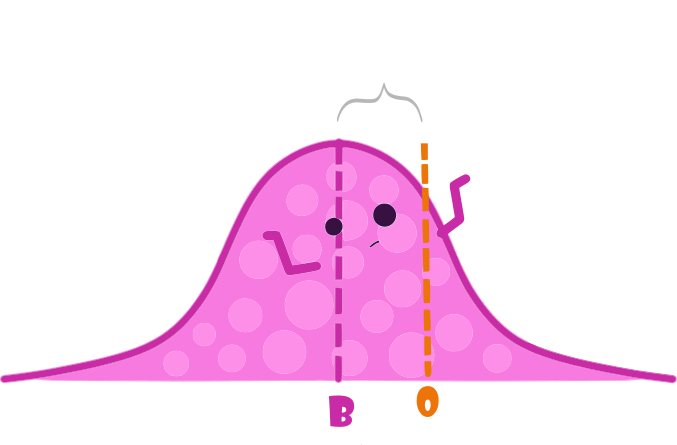
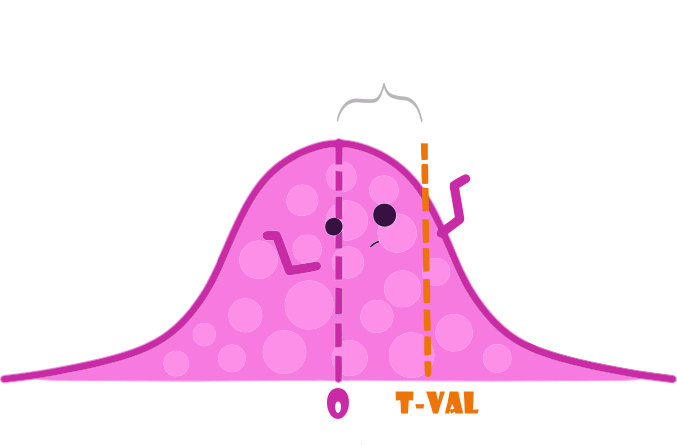
UPDATE

Changed region(s): [[0.5583, 0.8472, 0.7134, 0.9348], [0.4653, 0.8764, 0.5273, 0.964]]

diff --git a/exampleSite/content/Classes/Week2/1_OLS/f2022_sta235h_3_reg_annotate.html b/exampleSite/content/Classes/Week2/1_OLS/f2022_sta235h_3_reg_annotate.html
@@ -147,9 +147,39 @@ lm(Adj_Revenue ~ bechdel_test + Adj_Budget + Metascore + imdbRating, data=bechde
 
 - **.darkorange["Standard Error"]** (SE): You can think about it as the variability of `\(\hat{\beta}\)`. The smaller, the more precise `\(\hat{\beta}\)` is!
 
-- **.darkorange["t-stat"]**: A value of the Student distribution that measures how many SE away `\(\hat{\beta}\)` is from 0. It relates to our null-hypothesis `\(H_0: \beta=0\)`
+- **.darkorange["t-value"]**: A value of the Student distribution that measures how many SE away `\(\hat{\beta}\)` is from 0. You can calculate as `\(\frac{\hat{\beta}}{SE}\)`. It relates to our null-hypothesis `\(H_0: \beta=0\)`.
 
 - **.darkorange["p-value"]**: Probability of rejecting the null hypothesis and being *wrong*. You want this to be a small as possible (statistically significant).
+
+---
+# Reminder: Null-Hypothesis
+
+- We are testing `\(H_0: \beta = 0\)` vs `\(H_1: \beta \neq 0\)`
+
+.pull-left[
+- "Reject the null hypothesis"
+.center[
+![](https://raw.githubusercontent.com/maibennett/sta235/main/exampleSite/content/Classes/Week2/1_OLS/images/ttest_null.png)]
+]
+
+.pull-right[
+- "Not reject the null hypothesis"
+.center[
+![](https://raw.githubusercontent.com/maibennett/sta235/main/exampleSite/content/Classes/Week2/1_OLS/images/ttest_not_null.png)
+]
+]
+
+---
+# Reminder: Null-Hypothesis
+
+- We are testing `\(H_0: \beta = 0\)` vs `\(H_1: \beta \neq 0\)`
+
+
+.center[
+![](https://raw.githubusercontent.com/maibennett/sta235/main/exampleSite/content/Classes/Week2/1_OLS/images/reject.png)
+]
+
+
 
 ---
 # One extra dollar in our budget
